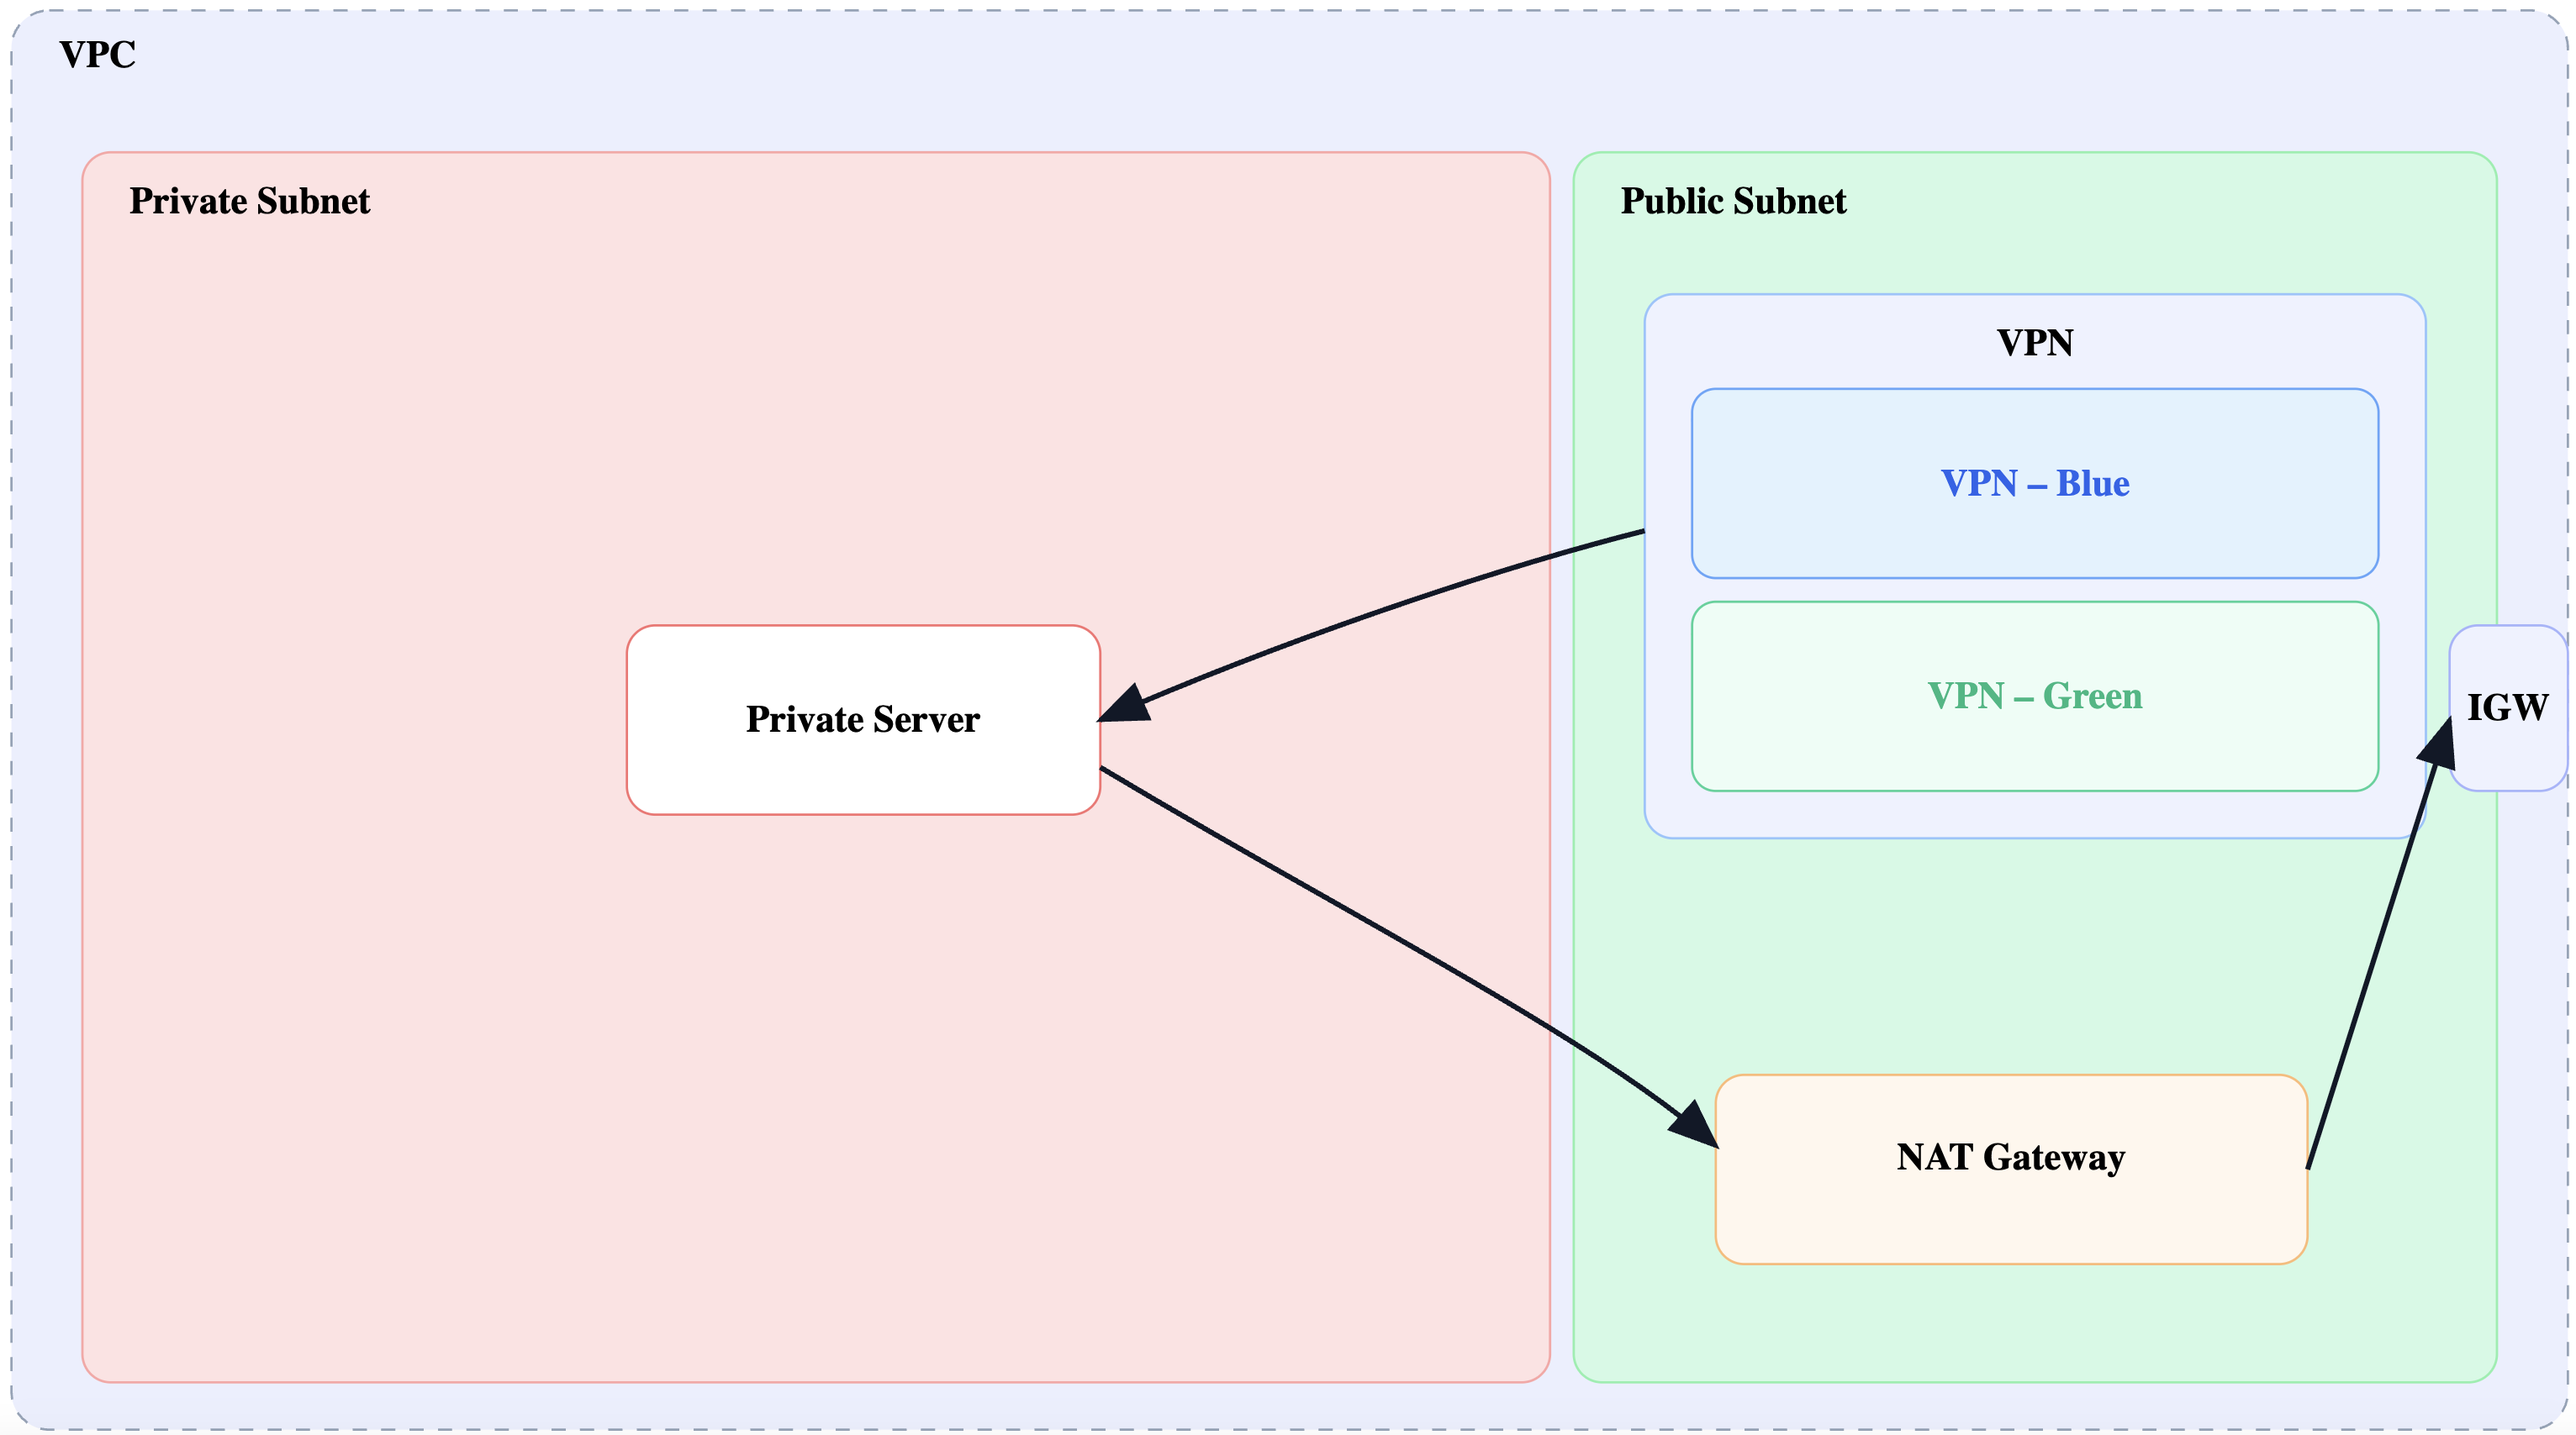
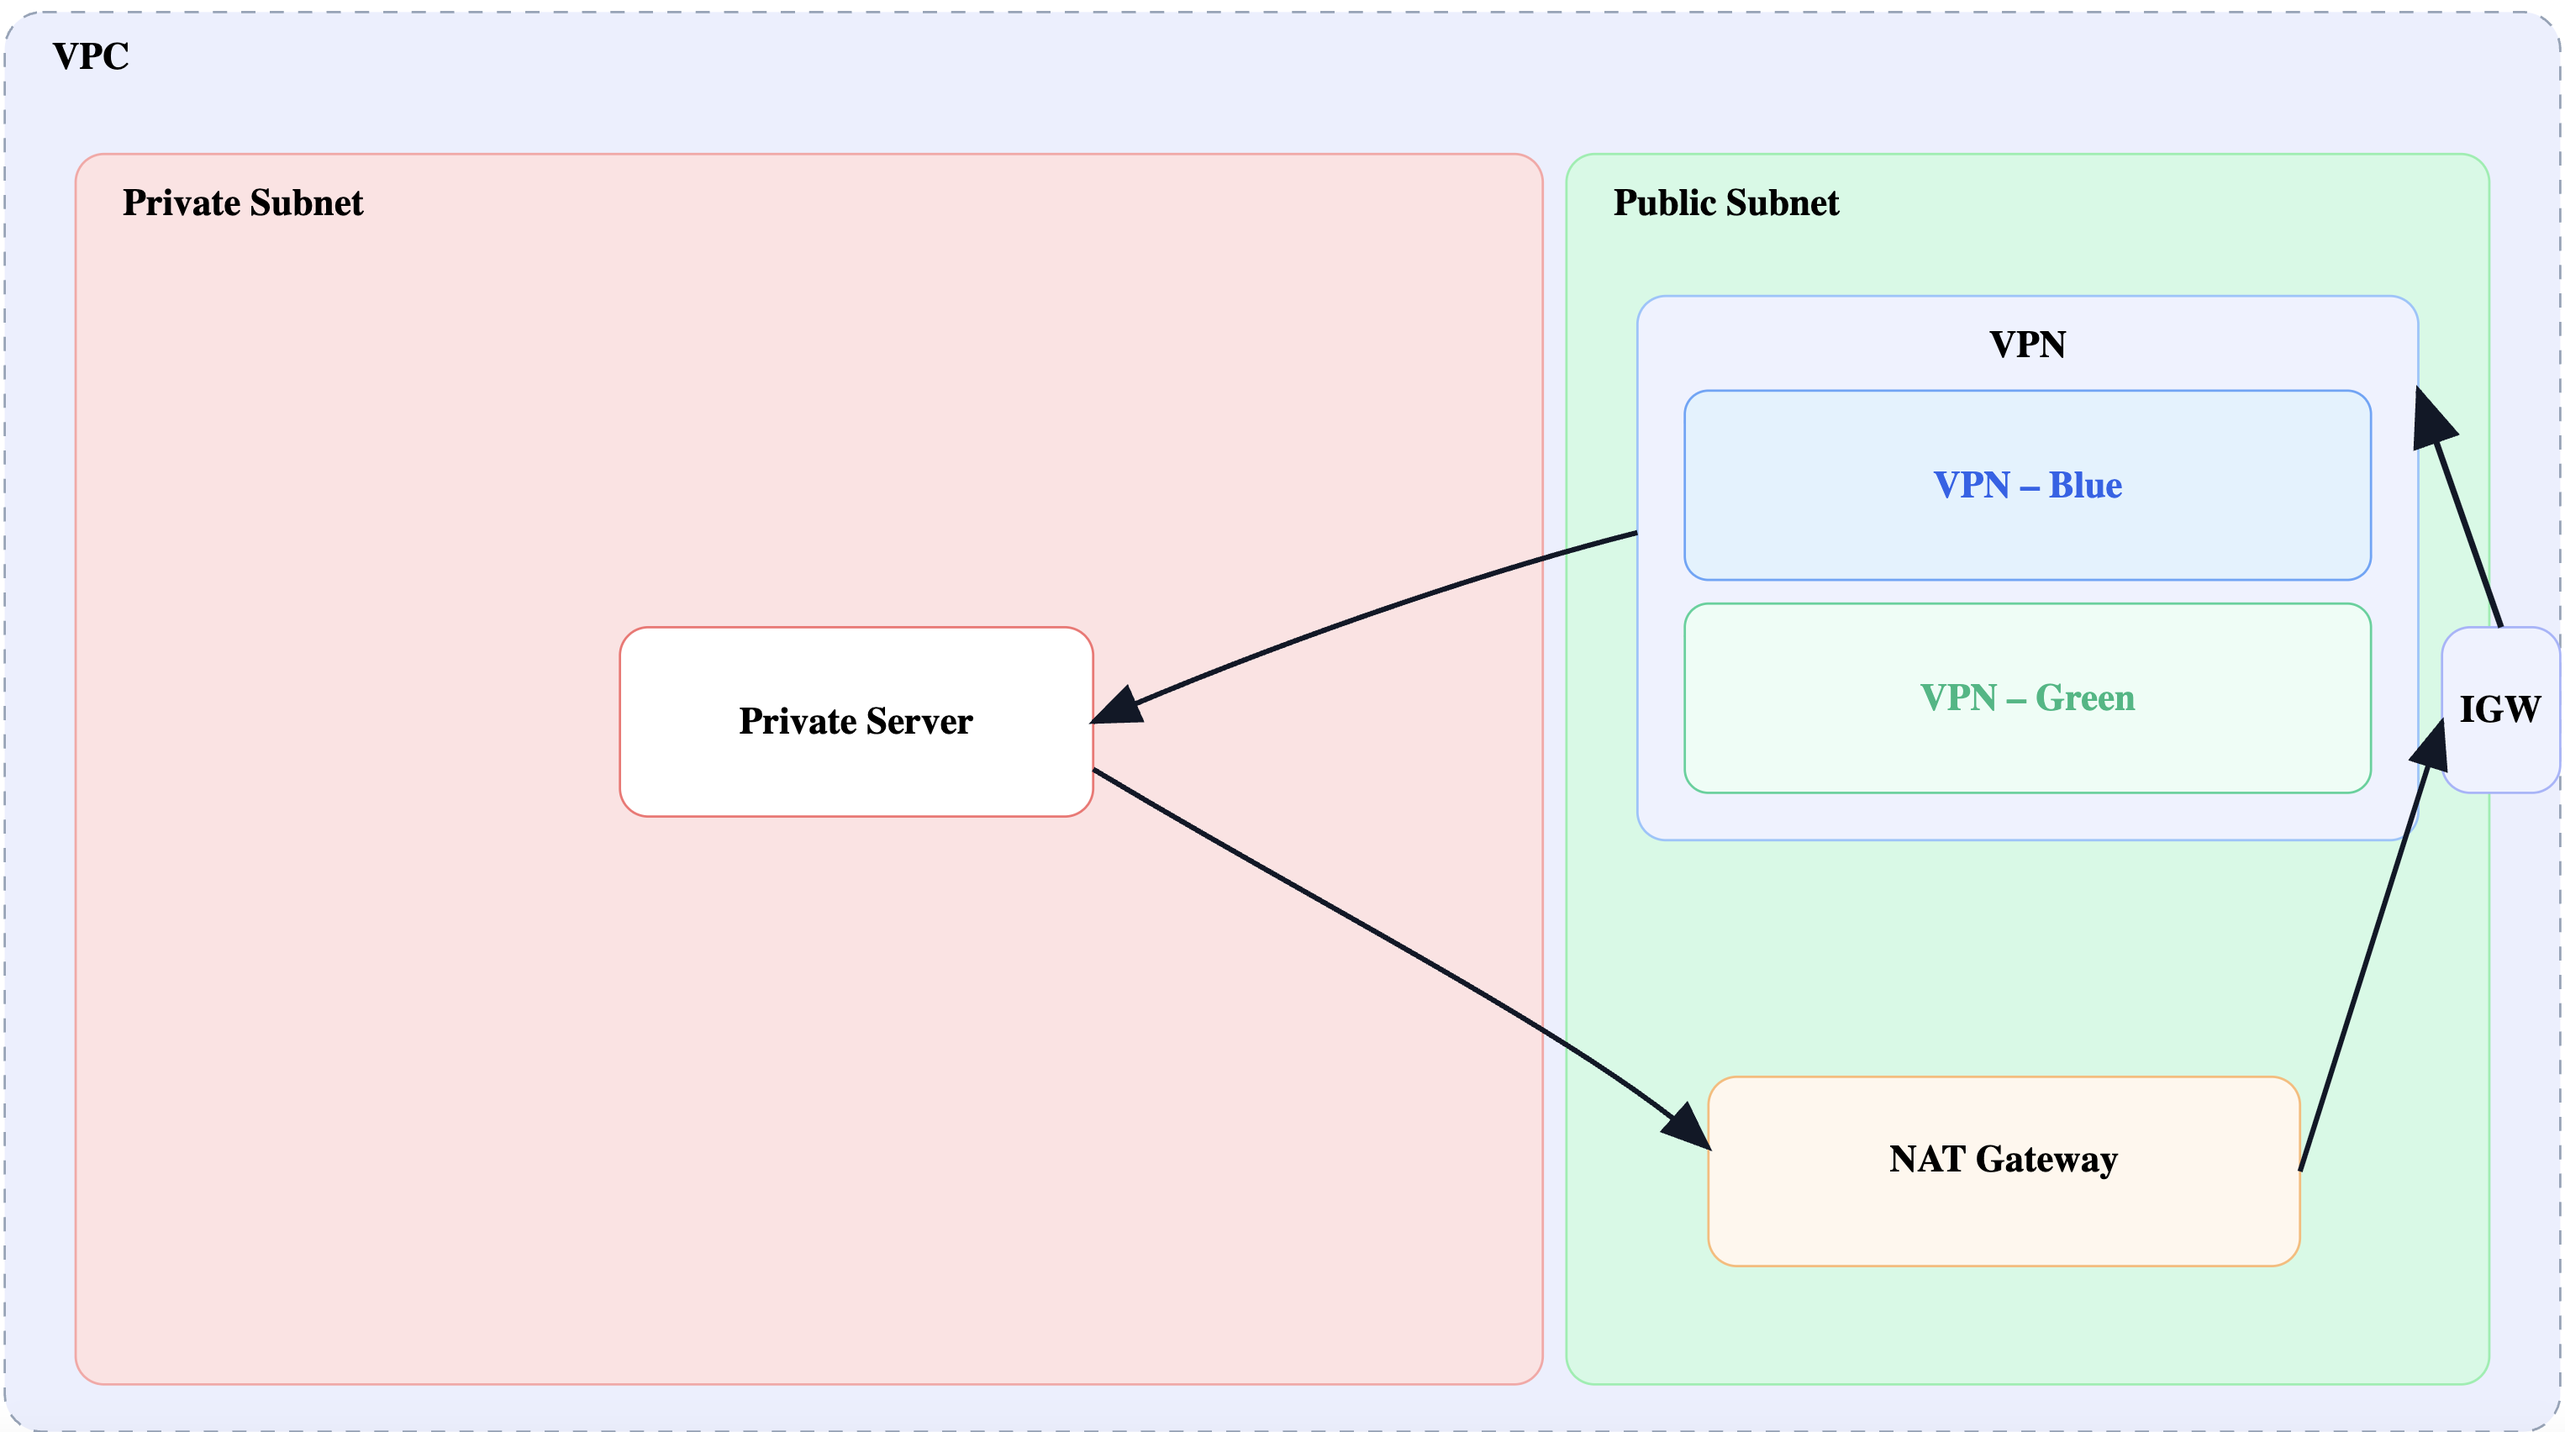
Added missing arrow

diff --git a/diagram.html b/diagram.html
@@ -51,23 +51,24 @@
     <!-- NAT Gateway -->
     <rect x="740" y="470" width="250" height="80" rx="12" ry="12" fill="#fff7ed" stroke="#fdba74"/>
     <text x="865" y="510" text-anchor="middle" font-weight="700">NAT Gateway</text>
-    
   </g>
 
   <!-- IGW -->
   <rect x="1050" y="280" width="50" height="70" rx="12" ry="12" fill="#eef2ff" stroke="#a5b4fc"/>
   <text x="1075" y="320" text-anchor="middle" font-weight="700">IGW</text>
 
-  <!-- FLOWS / ARROWS (one VPN arrow; NAT -> IGW label kept) -->
+  <!-- IGW -> VPN (small straight arrow to outer VPN box) -->
+  <line x1="1075" y1="280"  x2="1040" y2="180"
+      stroke="#111827" stroke-width="2.6" marker-end="url(#arrow)"/>
+  <!-- FLOWS / ARROWS -->
   <!-- VPN -> Private (single tunnel) -->
   <path d="M710 240 C 650 255, 560 285, 480 320" fill="none" stroke="#111827" stroke-width="2.2" marker-end="url(#arrow)"/>
 
   <!-- Private -> NAT (egress) -->
   <path d="M480 340 C 580 400, 690 455, 740 500" fill="none" stroke="#111827" stroke-width="2.2" marker-end="url(#arrow)"/>
 
-  <!-- NAT -> IGW (with label) -->
+  <!-- NAT -> IGW -->
   <path d="M990 510 L 1050 320" fill="none" stroke="#111827" stroke-width="2.2" marker-end="url(#arrow)"/>
-  
 </svg>
 </body>
 </html>
